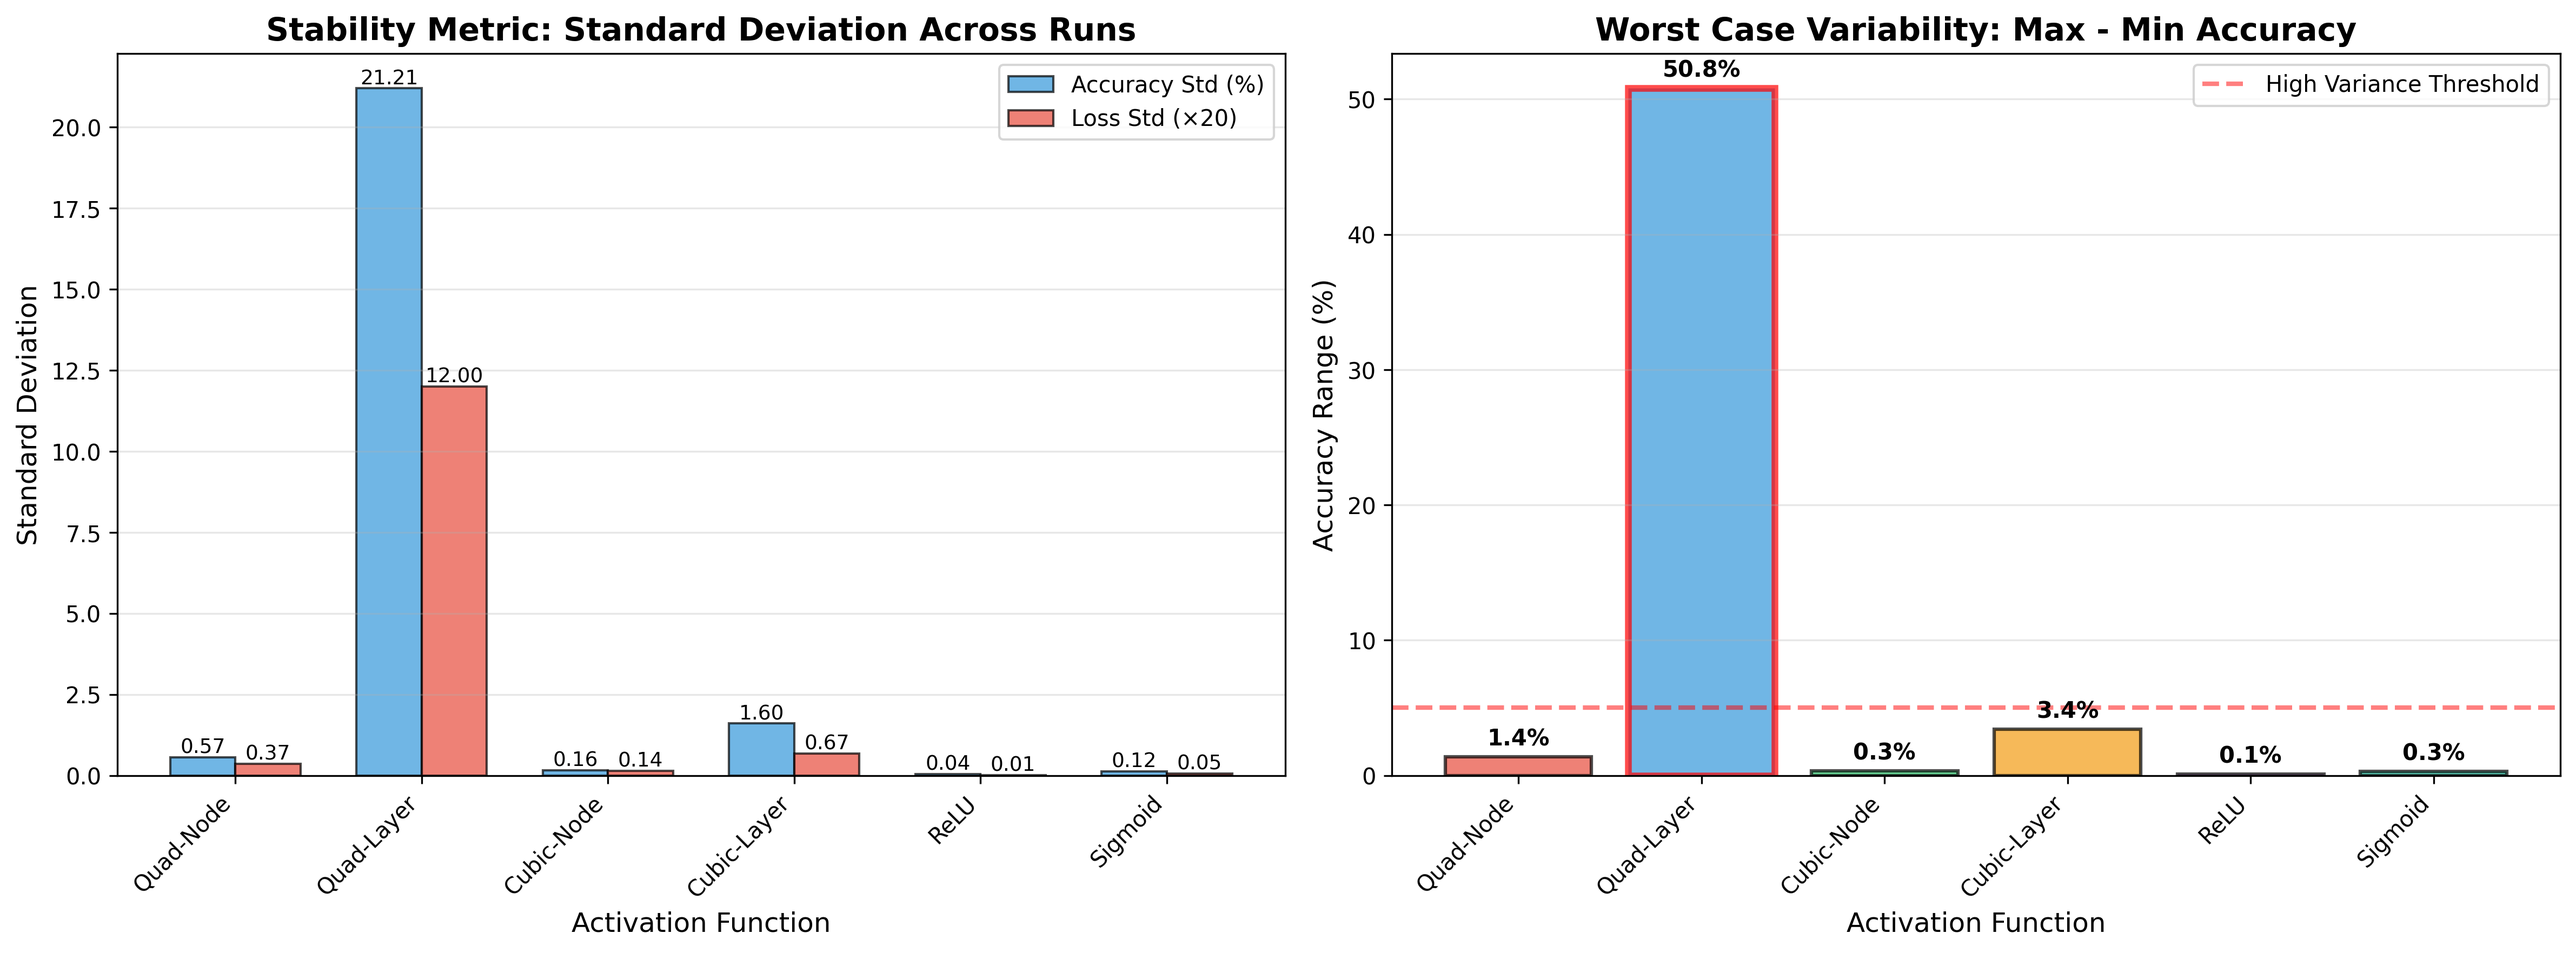
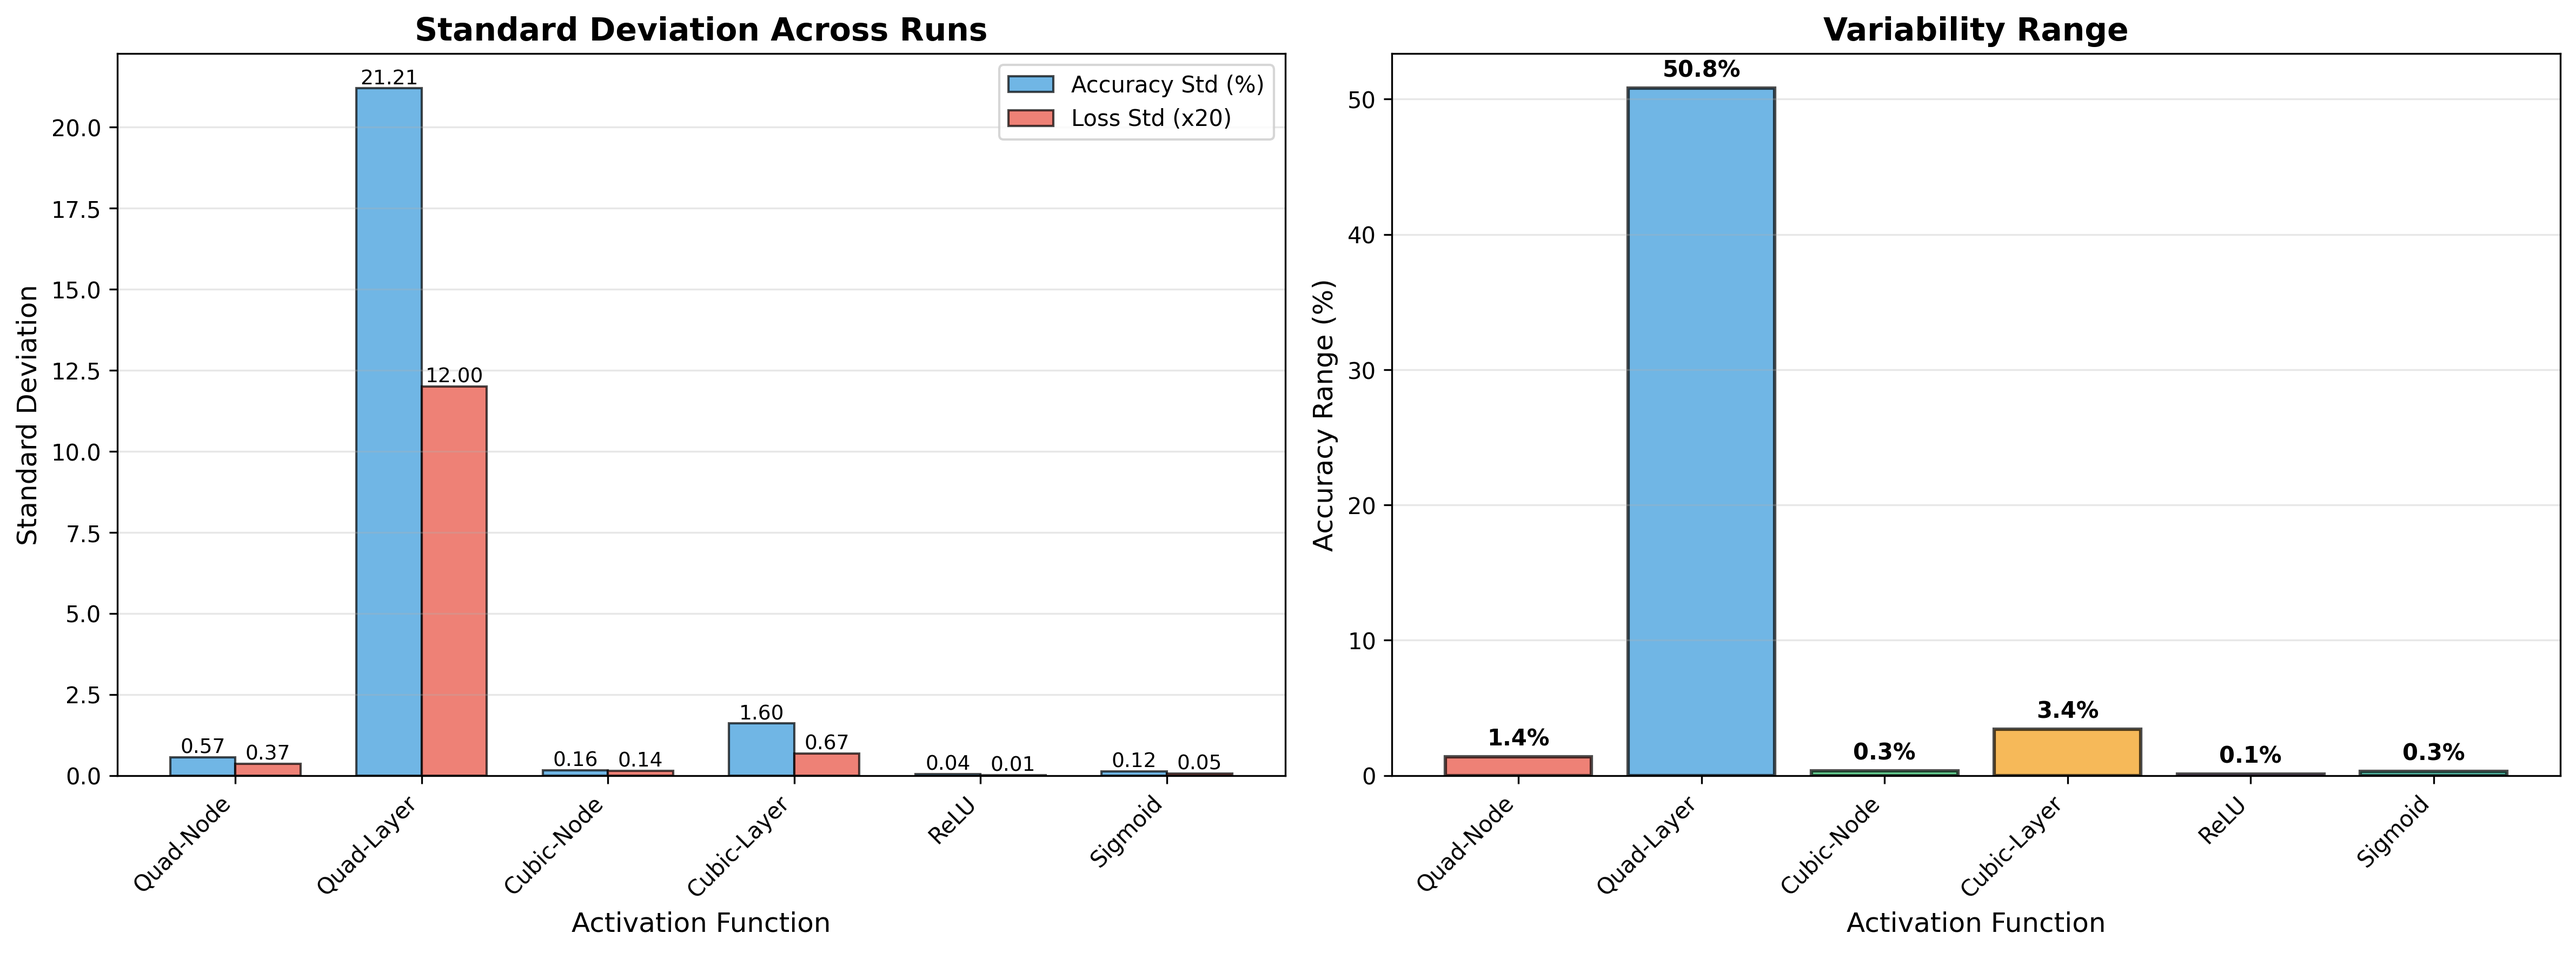
changed some of the pngs

diff --git a/results/experiment2_MNIST/experiment2_MNISTVisualiseResults2.py b/results/experiment2_MNIST/experiment2_MNISTVisualiseResults2.py
@@ -9,10 +9,9 @@ results = {k: v.item() for k, v in results.items()}
 saveDir = "results/experiment2_MNIST/graphs/experiment2"
 colors = ['#e74c3c', '#3498db', '#2ecc71', '#f39c12', '#9b59b6', '#1abc9c']
 
-# ============= 1. VARIANCE ANALYSIS - THE KEY FINDING =============
-
+# variance analysis
 fig, axes = plt.subplots(2, 2, figsize=(16, 12))
-fig.suptitle('Stability Analysis: Variance Across Runs', fontsize=18, fontweight='bold')
+fig.suptitle('Variance Across Runs', fontsize=18, fontweight='bold')
 
 metrics = [
     ("test_accuracy", "Test Accuracy (%)", axes[0, 0]),
@@ -45,7 +44,6 @@ plt.tight_layout()
 plt.savefig(f"{saveDir}_variance_analysis.png", dpi=300, bbox_inches='tight')
 plt.close()
 
-# ============= 2. VARIANCE QUANTIFICATION =============
 
 fig, axes = plt.subplots(1, 2, figsize=(16, 6))
 
@@ -66,7 +64,7 @@ for activation in results.keys():
 
 variance_df = pd.DataFrame(variance_data)
 
-# Plot 1: Standard Deviation Comparison
+# Standard Deviation Comparison
 ax1 = axes[0]
 x_pos = np.arange(len(variance_df))
 width = 0.35
@@ -74,11 +72,11 @@ width = 0.35
 bars1 = ax1.bar(x_pos - width/2, variance_df["Accuracy Std"], width, 
                 label='Accuracy Std (%)', color='#3498db', alpha=0.7, edgecolor='black')
 bars2 = ax1.bar(x_pos + width/2, variance_df["Loss Std"] * 20, width,  # Scale loss for visibility
-                label='Loss Std (×20)', color='#e74c3c', alpha=0.7, edgecolor='black')
+                label='Loss Std (x20)', color='#e74c3c', alpha=0.7, edgecolor='black')
 
 ax1.set_xlabel('Activation Function', fontsize=12)
 ax1.set_ylabel('Standard Deviation', fontsize=12)
-ax1.set_title('Stability Metric: Standard Deviation Across Runs', fontsize=14, fontweight='bold')
+ax1.set_title('Standard Deviation Across Runs', fontsize=14, fontweight='bold')
 ax1.set_xticks(x_pos)
 ax1.set_xticklabels(variance_df["Activation"], rotation=45, ha='right')
 ax1.legend()
@@ -91,14 +89,14 @@ for bars in [bars1, bars2]:
         ax1.text(bar.get_x() + bar.get_width()/2., height,
                 f'{height:.2f}', ha='center', va='bottom', fontsize=9)
 
-# Plot 2: Range (Max - Min) Comparison
+# Range Comparison
 ax2 = axes[1]
 bars = ax2.bar(range(len(variance_df)), variance_df["Accuracy Range"], 
                color=colors[:len(variance_df)], alpha=0.7, edgecolor='black', linewidth=1.5)
 
 ax2.set_xlabel('Activation Function', fontsize=12)
 ax2.set_ylabel('Accuracy Range (%)', fontsize=12)
-ax2.set_title('Worst Case Variability: Max - Min Accuracy', fontsize=14, fontweight='bold')
+ax2.set_title('Variability Range', fontsize=14, fontweight='bold')
 ax2.set_xticks(range(len(variance_df)))
 ax2.set_xticklabels(variance_df["Activation"], rotation=45, ha='right')
 ax2.grid(True, alpha=0.3, axis='y')
@@ -108,24 +106,14 @@ for i, (bar, range_val) in enumerate(zip(bars, variance_df["Accuracy Range"])):
     height = bar.get_height()
     ax2.text(bar.get_x() + bar.get_width()/2., height + 0.5,
             f'{range_val:.1f}%', ha='center', va='bottom', fontsize=10, fontweight='bold')
-    
-    # Highlight high variance (>5%)
-    if range_val > 5:
-        bar.set_edgecolor('red')
-        bar.set_linewidth(3)
-
-# Add reference line for "acceptable" variance
-ax2.axhline(y=5, color='red', linestyle='--', linewidth=2, alpha=0.5, label='High Variance Threshold')
-ax2.legend()
 
 plt.tight_layout()
 plt.savefig(f"{saveDir}_variance_quantification.png", dpi=300, bbox_inches='tight')
 plt.close()
 
-# ============= 3. RUN-BY-RUN COMPARISON (Show individual runs) =============
-
+# run by run comparison
 fig, axes = plt.subplots(2, 3, figsize=(18, 10))
-fig.suptitle('Individual Run Trajectories: Revealing Training Instability', fontsize=16, fontweight='bold')
+fig.suptitle('Individual Runs', fontsize=16, fontweight='bold')
 
 for idx, activation in enumerate(results.keys()):
     row = idx // 3
@@ -160,15 +148,14 @@ plt.tight_layout()
 plt.savefig(f"{saveDir}_individual_runs.png", dpi=300, bbox_inches='tight')
 plt.close()
 
-# ============= 4. CONVERGENCE CONSISTENCY ANALYSIS =============
-
+# Converge consistancy analysis
 fig, ax = plt.subplots(1, 1, figsize=(12, 8))
 
 consistency_data = []
 for activation in results.keys():
     test_accs = results[activation]["test_accuracy"]
     
-    # For each epoch, calculate coefficient of variation (std/mean)
+    # For each epoch, calculate std and mean variation
     cv_per_epoch = []
     for epoch in range(len(test_accs[0])):
         epoch_accs = [run[epoch] for run in test_accs]
@@ -189,15 +176,14 @@ for activation in results.keys():
 
 ax.set_xlabel('Epoch', fontsize=13)
 ax.set_ylabel('Coefficient of Variation (%)', fontsize=13)
-ax.set_title('Training Consistency: Lower = More Stable', fontsize=14, fontweight='bold')
+ax.set_title('Training Consistency', fontsize=14, fontweight='bold')
 ax.legend(fontsize=11)
 ax.grid(True, alpha=0.3)
 plt.tight_layout()
 plt.savefig(f"{saveDir}_consistency_analysis.png", dpi=300, bbox_inches='tight')
 plt.close()
 
-# ============= 5. ENHANCED SUMMARY TABLE WITH VARIANCE =============
-
+# summary table
 summary = []
 for activation in results.keys():
     train_accs = [run[-1] for run in results[activation]["train_accuracy"]]
@@ -215,56 +201,12 @@ for activation in results.keys():
         "Stability Score": np.std(test_accs),  # Lower = more stable
     })
 
-summary_df = pd.DataFrame(summary)
-summary_df = summary_df.sort_values('Stability Score', ascending=True)  # Most stable first
+summary = pd.DataFrame(summary)
+summary = summary.sort_values('Stability Score', ascending=True)  # Most stable first
 
-print("\n" + "="*120)
-print("EXPERIMENT 2: STABILITY ANALYSIS")
-print("="*120)
-print(summary_df.to_string(index=False))
-print("="*120)
-
-# Categorize by stability
-print("\nSTABILITY CLASSIFICATION:")
-print("-" * 120)
-for _, row in summary_df.iterrows():
-    stability = row['Stability Score']
-    if stability < 1.0:
-        category = "✅ HIGHLY STABLE"
-    elif stability < 3.0:
-        category = "⚠  MODERATELY STABLE"
-    else:
-        category = "❌ UNSTABLE"
-    
-    print(f"{row['Activation']:20s} | Std: {stability:5.2f}% | Range: {row['Test Acc Range (%)']:5.2f}% | {category}")
-print("="*120)
-
-# Key insights
-print("\nKEY INSIGHTS FROM VARIANCE ANALYSIS:")
-print("-" * 120)
-
-# Find most and least stable
-most_stable = summary_df.iloc[0]
-least_stable = summary_df.iloc[-1]
-
-print(f"1. Most Stable:  {most_stable['Activation']} (Std = {most_stable['Stability Score']:.2f}%)")
-print(f"2. Least Stable: {least_stable['Activation']} (Std = {least_stable['Stability Score']:.2f}%)")
-print(f"3. Stability Gap: {least_stable['Stability Score'] - most_stable['Stability Score']:.2f}% difference")
-
-# Compare node vs layer
-quad_node_std = summary_df[summary_df['Activation'] == 'Quad-Node']['Stability Score'].values[0]
-quad_layer_std = summary_df[summary_df['Activation'] == 'Quad-Layer']['Stability Score'].values[0]
-print(f"4. Quad-Node vs Quad-Layer Stability: {quad_layer_std / quad_node_std:.1f}x more variance with shared params")
-
-cubic_node_std = summary_df[summary_df['Activation'] == 'Cubic-Node']['Stability Score'].values[0]
-cubic_layer_std = summary_df[summary_df['Activation'] == 'Cubic-Layer']['Stability Score'].values[0]
-print(f"5. Cubic-Node vs Cubic-Layer Stability: {cubic_layer_std / cubic_node_std:.1f}x more variance with shared params")
-
-print("\nCONCLUSION:")
-print("Shared parameters (Layer) cause BOTH lower performance AND higher variance.")
-print("This suggests fundamental optimization difficulties, not just insufficient capacity.")
-print("="*120)
-
-# Save enhanced summary
-summary_df.to_csv(f"{saveDir}_stability_summary.csv", index=False)
+# Save summary
+summary.to_csv(f"{saveDir}_stability_summary.csv", index=False)
 variance_df.to_csv(f"{saveDir}_variance_metrics.csv", index=False)
+
+print(summary)
+print(variance_df)

diff --git a/results/experiment3_SyntheticData/experiment3_SyntheticDataVisualiseResults.py b/results/experiment3_SyntheticData/experiment3_SyntheticDataVisualiseResults.py
@@ -6,7 +6,7 @@ import seaborn as sns
 
 # Load results
 results = np.load("results/experiment3_SyntheticData/experiment3_SyntheticData.npz", allow_pickle=True)
-results = {k: v.item() for k, v in results.items()}  # assumes each v is a 0-d object array containing a dict
+results = {k: v.item() for k, v in results.items()}  
 
 saveDir = "results/experiment3_SyntheticData/graphs/experiment3"
 
@@ -18,10 +18,7 @@ tasks = ["linear", "polynomial", "discontinuous", "oscillatory"]
 task_labels = ["Linear", "Polynomial", "Discontinuous", "Oscillatory"]
 activations = ["ReLU", "Sigmoid", "Quad-Node", "Cubic-Node"]
 
-# ============================================================
-# 1. HEATMAP: Final Test Loss by Task × Activation
-# ============================================================
-
+# Final Test Loss heat map
 fig, ax = plt.subplots(1, 1, figsize=(10, 6))
 heatmap_data = np.zeros((len(tasks), len(activations)))
 
@@ -45,10 +42,7 @@ plt.savefig(f"{saveDir}_heatmap.png", dpi=300, bbox_inches='tight')
 plt.close()
 
 
-# ============================================================
-# 2. LEARNING CURVES: Test Loss Over Epochs (All Tasks)
-# ============================================================
-
+# Test Loss Over Epochs 
 fig, axes = plt.subplots(2, 2, figsize=(18, 12))
 axes = axes.flatten()
 
@@ -79,10 +73,7 @@ plt.savefig(f"{saveDir}_test_loss.png", dpi=300, bbox_inches='tight')
 plt.close()
 
 
-# ============================================================
-# 3. LEARNING CURVES: Train Loss Over Epochs (All Tasks)
-# ============================================================
-
+# Train Loss Over Epochs 
 fig, axes = plt.subplots(2, 2, figsize=(18, 12))
 axes = axes.flatten()
 
